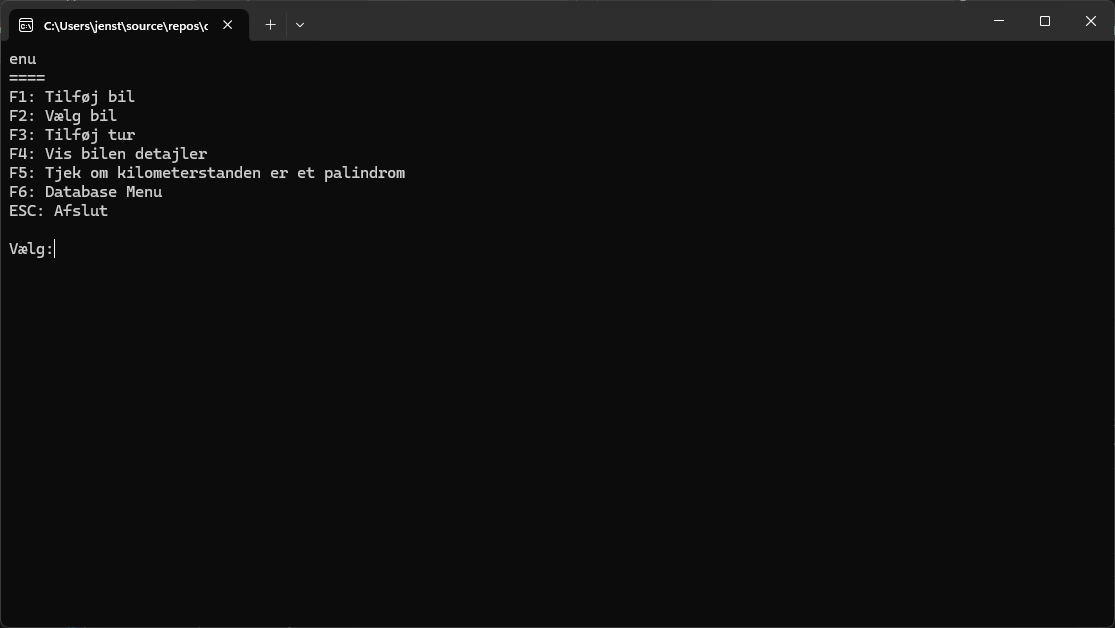
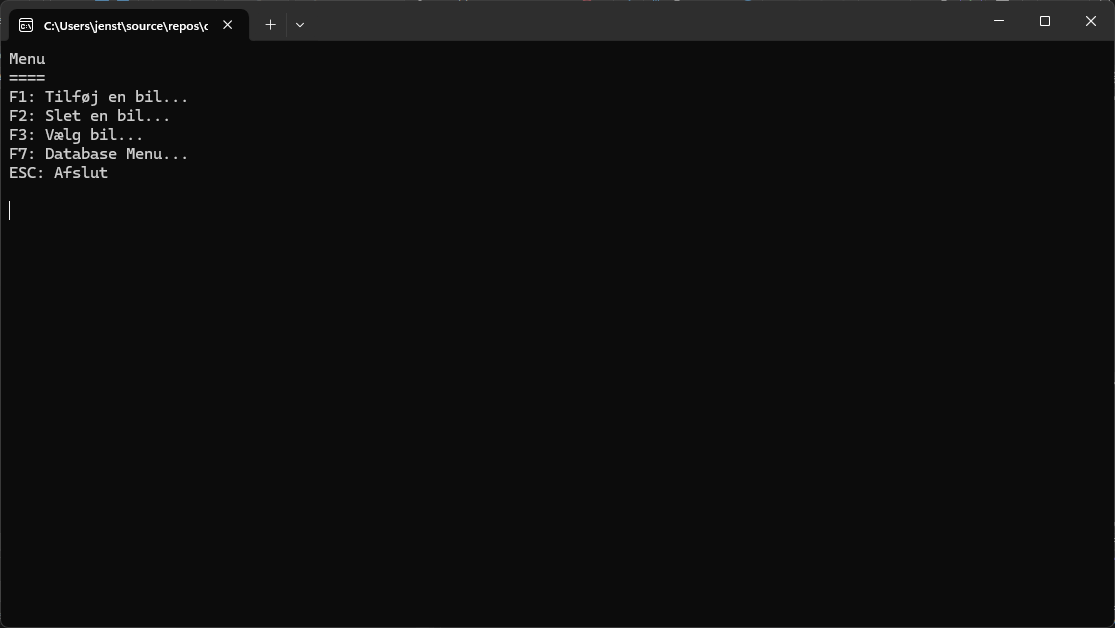
Add delete car function Prepare for Test Unit

diff --git a/CarApp/Program.cs b/CarApp/Program.cs
@@ -65,59 +65,139 @@ namespace CarApp
         /// <returns>The chosen car object.</returns>
         static Car? SelectCar()
         {
-            Console.Clear();
-            Console.WriteLine("Vælg bil");
-            Console.WriteLine("========");
-            Console.WriteLine();
+            List<Car> cars = Globals.DbSqlHandler.GetCars().ToList(); // Get the cars from the database
+            List<int> columns = new() { 3, 20, 20, 20 }; // number of columns and their width
+            System.ConsoleKeyInfo choice; // The user's choice
+            int elementCounter = 0;
+            int i;
 
-            List<Car> cars = Globals.DbSqlHandler.GetCars().ToList();
-
-            // number of columns
-            List<int> columns = new() { 2, 20, 20, 20 };
-
-            // Create Table for console
-            CreateTableFrameH(columns);
-            Console.WriteLine(
-                "| " + "#".PadLeft(columns[0]) +
-                " | " + CenterString("Mærke", columns[1]) +
-                " | " + CenterString("Model", columns[2]) +
-                " | " + CenterString("Kilemetertal", columns[3]) +
-                " |");
-            CreateTableFrameH(columns);
-
-            for (int i = 1; i < cars.Count + 1; i++)
-            {
-                int ii = i - 1;
-                Console.WriteLine(
-                    "| " + $"{i.ToString().PadLeft(columns[0])}" +
-                    " | " + $"{cars[ii].Brand}".PadRight(columns[1]) +
-                    " | " + $"{cars[ii].Model}".PadRight(columns[2]) +
-                    " | " + $"{cars[ii].Mileage}".PadLeft(columns[3]) +
-                    " |");
-            }
-            CreateTableFrameH(columns);
-            Console.WriteLine();
-            Console.WriteLine("0. Afslut");
-            Console.WriteLine();
-            int choice;
             do
             {
-                Console.Write("Vælg: ");
-                string? input = Console.ReadLine();
-                if (int.TryParse(input, out choice) && choice > 0 && choice <= cars.Count)
+                Console.Clear();
+                Console.WriteLine("Vælg bil");
+                Console.WriteLine("========");
+                Console.WriteLine();
+
+                // Create Table for console
+                CreateTableFrameH(columns); // Create a horizontal table frame
+                Console.WriteLine(
+                    "| " + "#".PadLeft(columns[0]) +
+                    " | " + CenterString("Mærke", columns[1]) +
+                    " | " + CenterString("Model", columns[2]) +
+                    " | " + CenterString("Kilemetertal", columns[3]) +
+                    " |");
+                CreateTableFrameH(columns); // Create a horizontal table frame
+
+                for (i = 1 + elementCounter; i < cars.Count + 1; i++)
                 {
-                    break;
+                    if (i > elementCounter + 10)
+                    {
+                        break;
+                    }
+                    int ii = i - 1;
+
+                    string option = $"F{(i - elementCounter)}";
+                    Console.WriteLine(
+                        "| " + $"{option.PadLeft(columns[0])}" +
+                        " | " + $"{cars[ii].Brand}".PadRight(columns[1]) +
+                        " | " + $"{cars[ii].Model}".PadRight(columns[2]) +
+                        " | " + $"{cars[ii].Mileage}".PadLeft(columns[3]) +
+                        " |");
                 }
-                else if (int.TryParse(input, out choice) && choice == 0)
+
+
+                CreateTableFrameH(columns); // Create a horizontal table frame
+                Console.WriteLine();
+                if (elementCounter > 0)
                 {
-                    return null;
+                    Console.WriteLine("F11: Forrige side ");
                 }
-                else
+                if (elementCounter + 10 < cars.Count - 1)
                 {
-                    Console.WriteLine("Ugyldigt valg, prøv igen.");
+                    Console.WriteLine("F12: Næste side ");
+                }
+                Console.WriteLine("ESC: Afslut");
+                choice = Console.ReadKey();
+
+                switch (choice.Key)
+                {
+                    case ConsoleKey.F1:
+                        return cars[elementCounter];
+                    case ConsoleKey.F2:
+                        if (elementCounter + 1 < cars.Count)
+                        {
+                            return cars[elementCounter + 1];
+                        }
+                        break;
+                    case ConsoleKey.F3:
+                        if (elementCounter + 2 < cars.Count)
+                        {
+                            return cars[elementCounter + 2];
+                        }
+                        break;
+                    case ConsoleKey.F4:
+                        if (elementCounter + 3 < cars.Count)
+                        {
+                            return cars[elementCounter + 3];
+                        }
+                        break;
+                    case ConsoleKey.F5:
+                        if (elementCounter + 4 < cars.Count)
+                        {
+                            return cars[elementCounter + 4];
+                        }
+                        break;
+                    case ConsoleKey.F6:
+                        if (elementCounter + 5 < cars.Count)
+                        {
+                            return cars[elementCounter + 5];
+                        }
+                        break;
+                    case ConsoleKey.F7:
+                        if (elementCounter + 6 < cars.Count)
+                        {
+                            return cars[elementCounter + 6];
+                        }
+                        break;
+                    case ConsoleKey.F8:
+                        if (elementCounter + 7 < cars.Count)
+                        {
+                            return cars[elementCounter + 7];
+                        }
+                        break;
+                    case ConsoleKey.F9:
+                        if (elementCounter + 8 < cars.Count)
+                        {
+                            return cars[elementCounter + 8];
+                        }
+                        break;
+                    case ConsoleKey.F10:
+                        if (elementCounter + 9 < cars.Count)
+                        {
+                            return cars[elementCounter + 9];
+                        }
+                        break;
+                    case ConsoleKey.F11:
+                        if (elementCounter > 0)
+                        {
+                            elementCounter -= 10;
+                        }
+                        break;
+                    case ConsoleKey.F12:
+                        if (elementCounter + 10 < cars.Count)
+                        {
+                            elementCounter += 10;
+                        }
+                        break;
+                    case ConsoleKey.Escape:
+                        return null;
+                    default:
+                        Console.WriteLine("Ugyldigt valg.");
+                        Console.WriteLine("Tast for at forsætte.");
+                        Console.ReadKey();
+                        break;
                 }
             } while (true);
-            return cars[choice - 1];
         }
 
         /// <summary>
@@ -307,15 +387,18 @@ namespace CarApp
                 Console.Clear(); // Clear the console window
                 Console.WriteLine("Menu");
                 Console.WriteLine("====");
-                Console.WriteLine("F1: Tilføj bil");
-                Console.WriteLine("F2: Vælg bil");
-                Console.WriteLine("F3: Tilføj tur");
-                Console.WriteLine("F4: Vis bilen detajler");
-                Console.WriteLine("F5: Tjek om kilometerstanden er et palindrom");
-                Console.WriteLine("F6: Database Menu");
+                Console.WriteLine("F1: Tilføj en bil...");
+                Console.WriteLine("F2: Slet en bil...");
+                Console.WriteLine("F3: Vælg bil...");
+                if (car != null)
+                {
+                    Console.WriteLine("F4: Tilføj tur...");
+                    Console.WriteLine($"F5: Vis {car.Brand} {car.Model} detajler");
+                    Console.WriteLine($"F6: Tjek om {car.Brand} {car.Model} kilometerstanden er et palindrom");
+                }
+                Console.WriteLine("F7: Database Menu...");
                 Console.WriteLine("ESC: Afslut");
                 Console.WriteLine();
-                Console.Write("Vælg:");
 
                 choice = Console.ReadKey(); // Wait for a key press
 
@@ -327,8 +410,15 @@ namespace CarApp
                         break;
                     case ConsoleKey.F2:
                         car = SelectCar();
+                        if (car != null)
+                        {
+                            Globals.DbSqlHandler.DeleteCar(car); // Delete the car from the database
+                        }
                         break;
                     case ConsoleKey.F3:
+                        car = SelectCar();
+                        break;
+                    case ConsoleKey.F4:
                         if (car != null)
                         {
                             car = AddTour(car);
@@ -340,10 +430,10 @@ namespace CarApp
                         else
                         {
                             Console.WriteLine("Ingen bil valgt. Tilføj eller vælg en bil først.");
-                            Console.ReadLine();
+                            Console.ReadKey();
                         }
                         break;
-                    case ConsoleKey.F4:
+                    case ConsoleKey.F5:
                         if (car != null)
                         {
                             PrintCarDetails(car);
@@ -351,35 +441,45 @@ namespace CarApp
                         else
                         {
                             Console.WriteLine("Ingen bil valgt. Tilføj eller vælg en bil først.");
-                            Console.ReadLine();
+                            Console.WriteLine("\nTryk på en tast for at fortsætte...");
+                            Console.ReadKey(); // Wait for a key press
+
                         }
                         break;
-                    case ConsoleKey.F5:
+                    case ConsoleKey.F6:
                         if (car != null)
                         {
                             Console.WriteLine(IsPalindrome(car) ? "Kilometertallet er et palindrom." : "Kilometertallet er ikke et palindrom.");
-                            Console.ReadLine();
+                            Console.WriteLine("\nTryk på en tast for at fortsætte...");
+                            Console.ReadKey(); // Wait for a key press
+
                         }
                         else
                         {
                             Console.WriteLine("Ingen bil valgt. Tilføj eller vælg en bil først.");
-                            Console.ReadLine();
+                            Console.WriteLine("\nTryk på en tast for at fortsætte...");
+                            Console.ReadKey(); // Wait for a key press
+
                         }
                         break;
-                    case ConsoleKey.F6:
+                    case ConsoleKey.F7:
                         MenuDatabase();
                         break;
                     case ConsoleKey.Escape:
                         return; // Exit the method
                     default:
                         Console.WriteLine("Ugyldigt valg.");
-                        Console.WriteLine("Tast for at forsætte.");
-                        Console.ReadKey();
+                        Console.WriteLine("\nTryk på en tast for at fortsætte...");
+                        Console.ReadKey(); // Wait for a key press
+
                         break;
                 }
             } while (true);
         }
 
+        /// <summary>
+        /// Displays the database menu and handles user input.
+        /// </summary>
         static void MenuDatabase()
         {
             do
@@ -389,8 +489,8 @@ namespace CarApp
                 Console.WriteLine("=============");
                 Console.WriteLine("F1: Import json to database (It will clear all existing data in db");
                 Console.WriteLine("F2: Export database to json");
-                //Console.WriteLine("F3: Clear database");
-                Console.WriteLine("ESC: Exit");
+                // TODO Console.WriteLine("F3: Clear database");
+                Console.WriteLine("ESC: Afslut");
                 ConsoleKeyInfo choice = Console.ReadKey(); // Wait for a key press
                 switch (choice.Key)
                 {
@@ -400,9 +500,11 @@ namespace CarApp
                     case ConsoleKey.F2:
                         Globals.DbSqlHandler.ExportToJson();
                         break;
-                    //case ConsoleKey.F3:
-                    //Globals.DbSqlHandler.ClearDatabase();
-                    //break;
+                    /* TODO
+                case ConsoleKey.F3:
+                Globals.DbSqlHandler.ClearDatabase();
+                break;
+                    */
                     case ConsoleKey.Escape:
                         Console.WriteLine("a"); //BUG: If we don not write anything in the case, it will loose first character in Menu 
                         return; // Exit the method
@@ -414,7 +516,6 @@ namespace CarApp
                 }
             } while (true);
         }
-
 
         /// <summary>
         /// The main entry point for the application.

diff --git a/CarApp/DbSqliteHandler.cs b/CarApp/DbSqliteHandler.cs
@@ -6,7 +6,7 @@ namespace CarApp
 {
     public class DbSqliteHandler
     {
-        private readonly string _connectionString;
+        private readonly string _connectionString; // Connection string for SQLite
 
         /// <summary>
         /// Initializes a new instance of the <see cref="DbSqliteHandler"/> class.
@@ -183,6 +183,19 @@ namespace CarApp
         }
 
         /// <summary>
+        /// Deletes a car from the database.
+        /// </summary>
+        /// <param name="car">The car to delete.</param>
+        public void DeleteCar(Car car)
+        {
+            using (var connection = Connection)
+            {
+                var sql = "DELETE FROM Cars WHERE Id = @Id";
+                connection.Execute(sql, new { Id = car.Id });
+            }
+        }
+
+        /// <summary>
         /// Updates the details of an existing car in the database.
         /// </summary>
         /// <param name="car">The car object containing updated details.</param>
@@ -252,6 +265,9 @@ namespace CarApp
             }
         }
 
+        /// <summary>
+        /// Exports the data from the database to a JSON file.
+        /// </summary>
         public void ExportToJson()
         {
             JsonFileHandler jsonFileHandler = new JsonFileHandler();

diff --git a/TestCarApp/Test1.cs b/TestCarApp/Test1.cs
@@ -1,0 +1,11 @@
+namespace TestCarApp
+{
+    [TestClass]
+    public sealed class Test1
+    {
+        [TestMethod]
+        public void TestMethod1()
+        {
+        }
+    }
+}

diff --git a/TestCarApp/MSTestSettings.cs b/TestCarApp/MSTestSettings.cs
@@ -1,0 +1,1 @@
+[assembly: Parallelize(Scope = ExecutionScope.MethodLevel)]

diff --git a/README.md b/README.md
@@ -60,13 +60,20 @@ dotnet add package Dapper
 dotnet add package Microsoft.Data.Sqlite
 ```
 
+## Usage
+```bash
+dotnet run
+```
+
+You may need to remove / change key bindings ´F11´ in the terminal to use the application properly.
+
 ## Features
 
 - [x] Add car
 - [x] Load / Save car to database
 - [x] Calculate trip fuel price
 - [x] Print rapport of car
-- [x] Export / Import data to json
+- [x] Export / Import json data
 
 ## Todo
 
